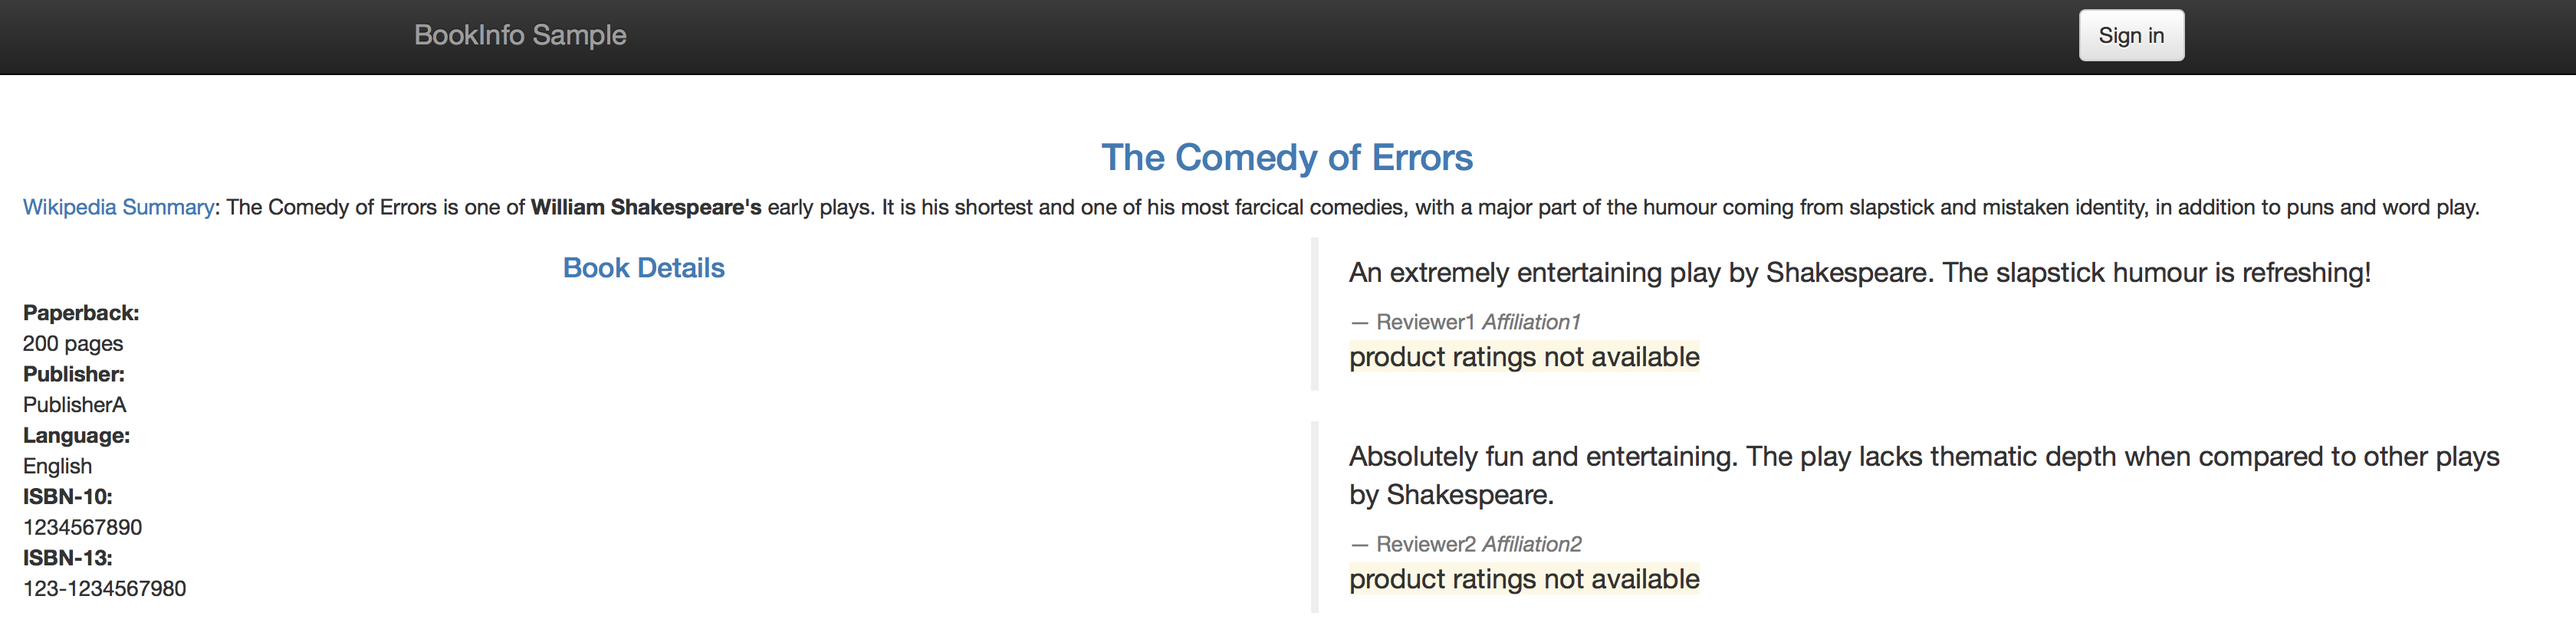
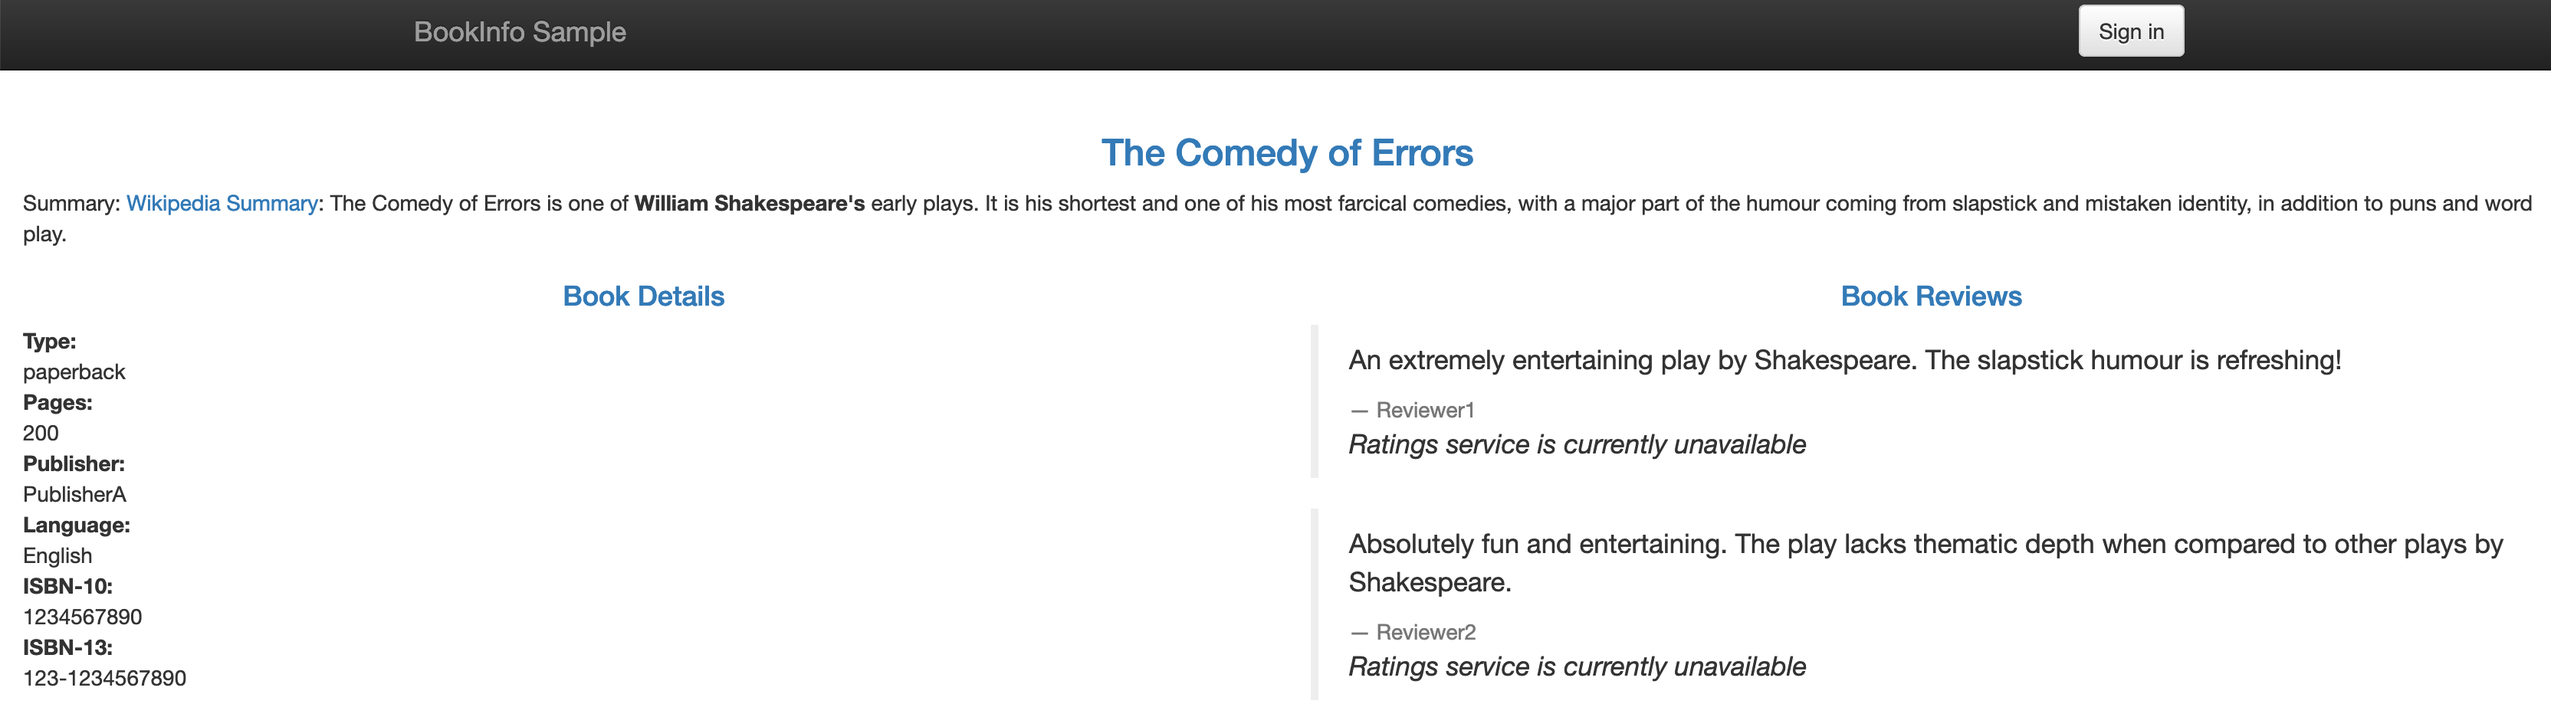
c

diff --git a/fs-collector/public/coursecatalog/KUBADV01 Istio.md b/fs-collector/public/coursecatalog/KUBADV01 Istio.md
@@ -101,7 +101,7 @@ In the [second part](#part-b-modify-sample-application-to-use-an-external-dataso
 - [Grafana](http://docs.grafana.org/guides/getting_started)
 - [Jaeger](https://www.jaegertracing.io/)
 - [Prometheus](https://prometheus.io/)
-- [IBM Cloud Kubernetes Service](https://console.ng.bluemix.net/docs/containers/cs_ov.html#cs_ov)
+
 
 ---
 
@@ -550,6 +550,10 @@ This would set all incoming routes on the services (indicated in the line `desti
   $ kubectl apply -f ./samples/bookinfo/networking/virtual-service-all-v1.yaml
   ```
 
+Observe in the Kiali Dashboard. After a short wile you should see that all traffic is going to V1.
+
+![](./images/traffic1.png)
+
 **After a theoretical deployment of v2:**
 
 Route 100% of the traffic to the `version: v2` of the **reviews microservices**  
@@ -560,6 +564,12 @@ This will direct/switch all incoming traffic to version v2 of the reviews micros
   $ kubectl apply -f ./samples/bookinfo/networking/virtual-service-reviews-v2.yaml
   ```
   
+Observe in the [Kiali Dashboard](http://192.168.99.100:31552/kiali/). After a short wile you should see that all traffic is going to V2.
+
+![](./images/traffic2.png)
+
+
+
 ---
 
   
@@ -577,7 +587,58 @@ This is indicated by the `weight: 80 and 20` in the yaml file.
   $ kubectl apply -f ./samples/bookinfo/networking/virtual-service-reviews-80-20.yaml
   ```
 
+Observe in the [Kiali Dashboard](http://192.168.99.100:31552/kiali/). After a short wile you should see that about 80% of the traffic is going to V1 and 80% of the traffic is going to V2.
+
+![](./images/traffic3.png)
+
 ---
+
+
+## Navigating Kiali
+Open [Kiali Dashboard](http://192.168.99.100:31552/kiali/) and select the `reviews` service in the graph.
+
+![](./images/traffic31.png)
+
+To the right you can observe specific metrics for this service.
+Then open the `reviews` service overview:
+
+![](./images/traffic32.png)
+
+In this view you can get details about the service, like averall Health, assigned `Workloads` and much more.
+
+![](./images/traffic33.png)
+
+**Feel free to browse some more to get familiar with the interface.**
+
+Now open the `reviews` service details by selecting the `Virtual Services` tab and selecting `reviews`.
+
+![](./images/traffic34.png)
+
+Here you get more detailed information about the service, like the weight distribution:
+
+![](./images/traffic35.png)
+
+
+---
+
+## Gradual Rollout
+
+In order to gradually roll out a new release we have to change the weight distribution.
+
+* Click on the `YAML` tab
+* Modify the weight to 20%/80% 
+* Click `Save`
+
+![](./images/traffic36.png)
+
+Observe in the [Kiali Dashboard](http://192.168.99.100:31552/kiali/). After a short wile you should see that about 20% of the traffic is going to V1 and 90% of the traffic is going to V2.
+
+![](./images/traffic37.png)
+
+**Note:** The sum of the weights must be equal to 100%
+
+---
+
 
 ## Traffic Steering / Dark Launch
 Define certain conditions (Username, type of phone, ...) that will be using the new service.
@@ -590,17 +651,22 @@ This would set the route for the user `jason` (You can login as _jason_ with any
 Run:
 
   ```
-  $ kubectl apply -f ./samples/bookinfo/networking/virtual-service-reviews-test-v3.yaml
+  $ kubectl apply -f ./samples/bookinfo/networking/virtual-service-reviews-jason-v2v3
   ```
   
  Go to the Bookinfo Application: [`http://192.168.99.100:31380/productpage`](http://192.168.99.100:31380/productpage) (replace 192.168.99.100 with the address of your cluster).
  
 **Refresh several times** - You should see only black stars, meaning that you are using V2. 
  
-And login to the Web Application as user jason with password jason and **refresh several times**. You should see only red stars, meaning that you are using V3.
 
-Observe in the Kiali Dashboard. After a short wile you should see traffic going to V3
 
+![](./images/traffic4.png)
+
+Now login to the Web Application as user jason with password jason and **refresh several times**. You should see only red stars, meaning that you are using V3.
+
+Observe in the [Kiali Dashboard](http://192.168.99.100:31552/kiali/). After a short wile you should see that a small percentage of traffic is going to V3, which corresponds to your page refreshes.
+
+![](./images/traffic5.png)
 
 #### Hint Traffic flow management
 
@@ -631,7 +697,9 @@ This step shows you how to control access to your services. It helps to reset th
    $ kubectl apply -f ./samples/bookinfo/networking/virtual-service-reviews-jason-v2-v3.yaml
 ```
 
-You'll now see that your `productpage` always red stars on the reviews section if not logged in, and always shows black stars when logged in as _jason_.
+Go to the Bookinfo Application: [`http://192.168.99.100:31380/productpage`](http://192.168.99.100:31380/productpage) (replace 192.168.99.100 with the address of your cluster).
+
+You'll now see that your `productpage` always shows red stars on the reviews section if not logged in, and always shows black stars when logged in as _jason_.
 
 * To deny access to the ratings service for all traffic coming from `reviews-v3`, you will use apply these rules:
 
@@ -640,7 +708,7 @@ You'll now see that your `productpage` always red stars on the reviews section i
    $ kubectl apply -f ./samples/bookinfo/policy/mixer-rule-ratings-denial.yaml
   ```
 
-* To verify if your rule has been enforced, point your browser to your BookInfo Application. You'll notice you see no stars from the reviews section unless you are logged in as _jason_, in which case you'll see black stars.
+* To verify if your rule has been enforced, point your browser to your BookInfo Application. You'll notice you see no stars (Ratings service is currently unavailable) from the reviews section unless you are logged in as _jason_, in which case you'll see black stars.
 
 ![access-control](./images/access.png)
 
@@ -704,16 +772,6 @@ You can read more about how [Istio mixer enables telemetry reporting](https://is
 This step shows you how to configure [Istio Mixer](https://istio.io/docs/concepts/policy-and-control/mixer.html) to gather telemetry for services in your cluster.
 
 
-* Verify that the required Istio addons (Prometheus and Grafana) are available in your cluster:
-
-  ```
-  $ kubectl get pods -n istio-system | grep -E 'prometheus|grafana'
-  
-  grafana-6cbdcfb45-bwmtm                     1/1       Running     0          4d
-  istio-grafana-post-install-h2dgz            0/1       Completed   1          4d
-  prometheus-84bd4b9796-vnb58                 1/1       Running     0          4d
-  ```
-
 * Make sure you still send traffic to that service. You can renew the `for` loop from earlier.
 
 	```
@@ -721,12 +779,14 @@ This step shows you how to configure [Istio Mixer](https://istio.io/docs/concept
 	```
 
 * Point your browser to [`http://192.168.99.100:31551/`](http://192.168.99.100:31551) (replace 192.168.99.100 with the address of your cluster)
+* Click on the `Home` button in the upper left hand corner
+* Select `Istio Service Dashboard`
 
 
   Your dashboard should look like this:  
   ![Grafana-Dashboard](./images/grafana_1.png)
  
-Play around and observer the different metrics being collected.
+Play around and observe the different metrics being collected.
 
 [Collecting Metrics on Istio](https://istio.io/docs/tasks/telemetry/metrics/)
 
@@ -736,7 +796,9 @@ Play around and observer the different metrics being collected.
 
 Jaeger is a distributed tracing tool that is available with Istio.
 
-  Access the Jaeger dashboard at [`http://192.168.99.100:31553/`](http://192.168.99.100:31553) (replace 192.168.99.100 with the address of your cluster)
+  * Access the Jaeger dashboard at [`http://192.168.99.100:31553/`](http://192.168.99.100:31553) (replace 192.168.99.100 with the address of your cluster)
+  * Select `productpage.default` in the left hand `Service` dropdown
+  * Click `Find Traces`
 
   Your dashboard should look something like this:
   
@@ -747,10 +809,6 @@ Jaeger is a distributed tracing tool that is available with Istio.
 	```
 	$ for i in `seq 1 200000`; do curl http://192.168.99.100:31380/productpage; done
 	```
-
-* Go to your Jeger Dashboard again and you will see a number of traces done. Click on Find Traces button to see the recent traces (previous hour by default.)
-
-![jaeger](./images/jaeger2.png)
 
 * Click on one of those traces and you will see the details of the traffic you sent to your BookInfo App. It shows how much time it took for the request on `productpage` to finish. It also shows how much time it took for the requests on the `details`,`reviews`, and `ratings` services.
 

diff --git a/fs-collector/public/coursecatalog/KUB02 Kubernetes Introduction.md b/fs-collector/public/coursecatalog/KUB02 Kubernetes Introduction.md
@@ -3,7 +3,7 @@
 
 :course_desc: This course contains a refresh of the Container and Kubernetes topics. 
 
-:course_max: 5
+:course_max: 4
 
 :course_auto: no
 
@@ -58,46 +58,6 @@
 :infotab: <li>Never</li>
 :infotab: </ul>
 :infotab: <p>More details on image management may be <a href="https://kubernetes.io/docs/concepts/containers/images/">found here</a>.</p>
-
-
-
-#### Task Intro
-
-----
-
-
-
-
-
-<img src="https://kubernetes.io/images/favicon.png" width="200">
-
-
-# Welcome to the IBM Kubernetes Labs
-
-
-
-### Objectives
-
-This lab is an introduction to using Docker containers on Kubernetes in the IBM Cloud Container Service. By the end of the course, you'll achieve these objectives:
-
-* Understand core concepts of Kubernetes
-* Deploy an application on Kubernetes in the IBM Cloud Container Service 
-* Control application deployments, while minimizing your time with infrastructure management
-* Add AI services to extend your app 
-* Secure and monitor your cluster and app
-
-
----
-
-
-#### Hint Intro
-
-No hint available
-
-
-#### Complete Intro
-
-> Confirm Intro complete
 
 
 
@@ -161,6 +121,8 @@ Traditional applications are run on native hardware. A single application does n
 
 Containers allow you to share the host OS. This reduces duplication while still providing the isolation. Containers also allow you to drop unneeded files such as system libraries and binaries to save space and reduce your attack surface. If SSHD or LIBC are not installed, they cannot be exploited.
 
+
+![Containers versus VMs](./images/kub1.png)
 
 ## Docker Terminoloy
 

diff --git a/fs-collector/public/coursecatalog/KUB03 Kubernetes Labs.md b/fs-collector/public/coursecatalog/KUB03 Kubernetes Labs.md
@@ -78,7 +78,7 @@ Minikube provides a simple way to run applications in containers on Kubernetes.
 
 * Lab 1: This lab walks through creating and deploying a simple "guestbook" app written in Go as a net/http Server and accessing it.
 
-* Lab 2: Builds on lab 1 to expand to a more resilient setup which can survive having containers fail and recover. Lab 2 will also walk through basic services you need to get started with Kubernetes and the IBM Cloud Container Service
+* Lab 2: Builds on lab 1 to expand to a more resilient setup which can survive having containers fail and recover. Lab 2 will also walk through basic services you need to get started with Kubernetes
 
 * Lab 3: Builds on lab 2 by increasing the capabilities of the deployed Guestbook application. This lab covers basic distributed application design and how kubernetes helps you use standard design practices.
 
@@ -316,8 +316,7 @@ No hint available
 
 ## Lab 1. Set up and deploy your first application
 
-Learn how to deploy an application to a Kubernetes cluster hosted within
-the IBM Container Service.
+Learn how to deploy an application to a Kubernetes cluster.
 
 Once your client is configured, you are ready to deploy your first application, `guestbook`.
 

diff --git a/fs-collector/public/coursecatalog/KUB01 Lab Setup.md b/fs-collector/public/coursecatalog/KUB01 Lab Setup.md
@@ -220,7 +220,6 @@ To view a local version of the Kubernetes dashboard and to deploy apps into your
 
 * [Windows](https://storage.googleapis.com/kubernetes-release/release/v1.10.8/bin/windows/amd64/kubectl.exe)
 
-Install the Kubernetes CLI in the same directory as the IBM Cloud CLI. This setup saves you some filepath changes when you run commands later.
 
 **For OS X and Linux users:**
 
